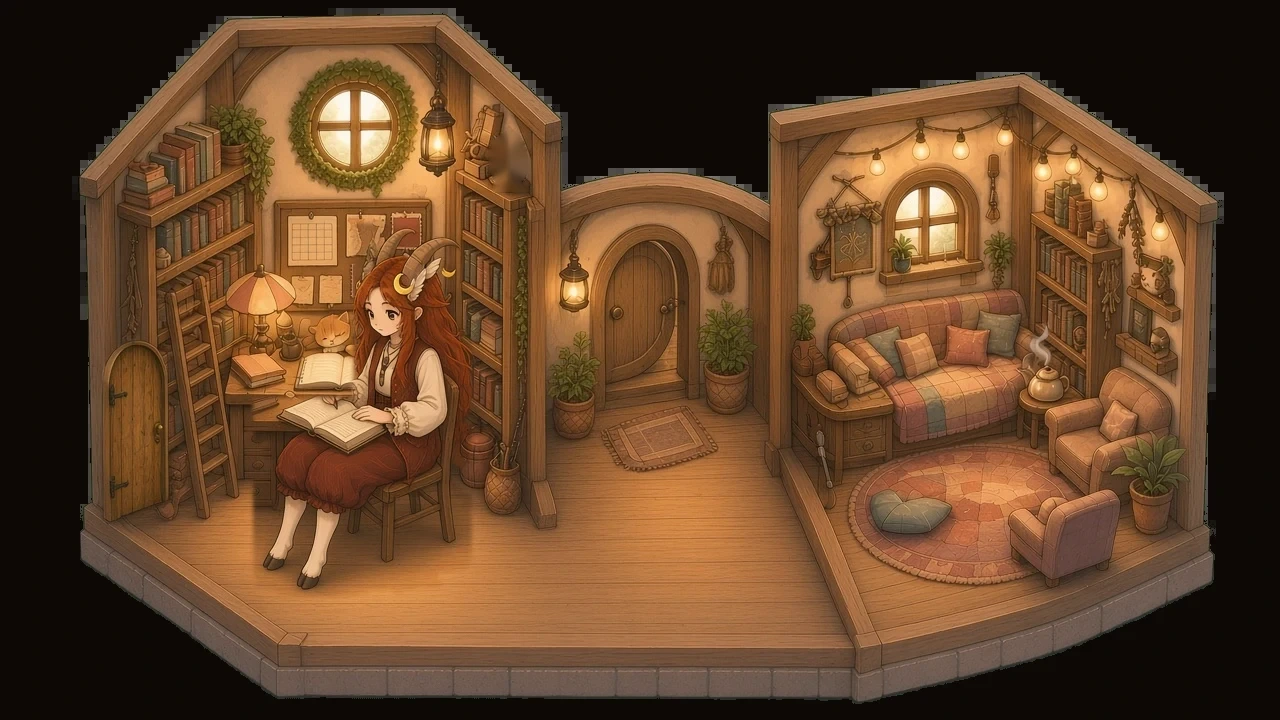
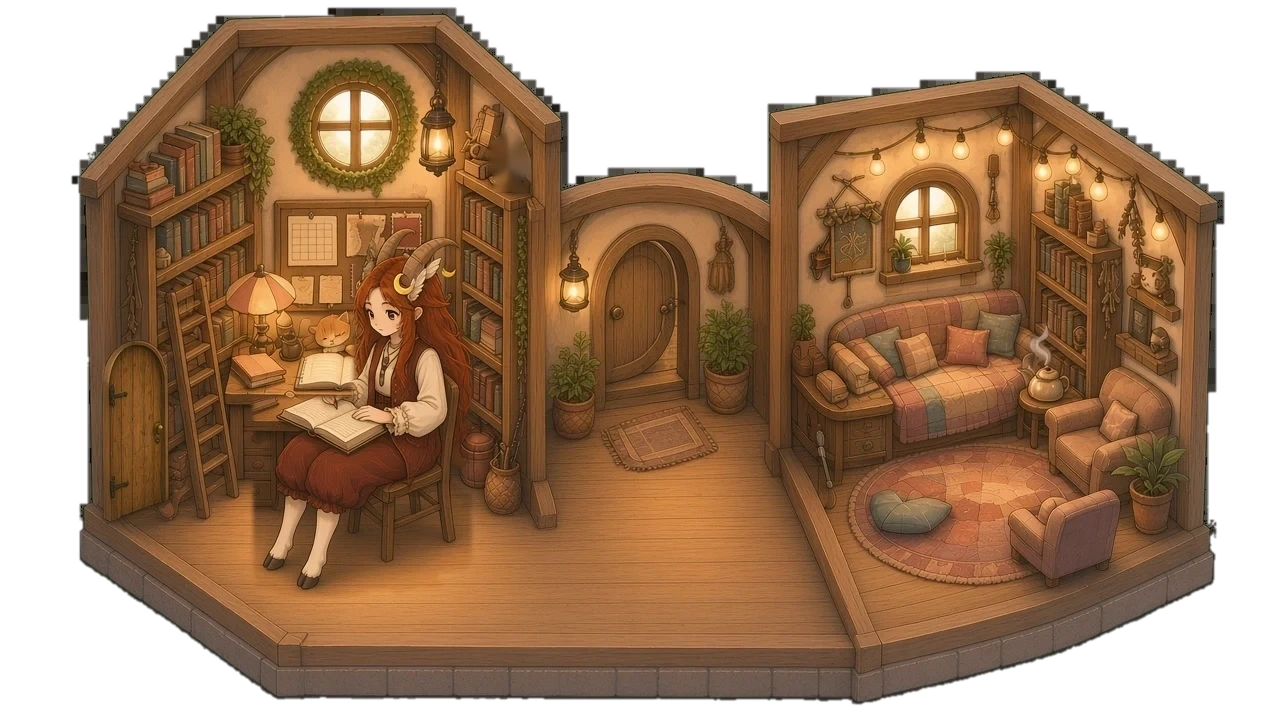
v56: rock restored, Scout house + bedroom repaint, Loria cutout fix

Changed region(s): [[0.0, 0.0, 1.0, 1.0]]

diff --git a/sw.js b/sw.js
@@ -1,19 +1,19 @@
-const CACHE = 'bot-town-v55';
+const CACHE = 'bot-town-v56';
 const ASSETS = ['./', 'index.html', 'style.css', 'config.js', 'music.js', 'app.js','starmap.js', 'manifest.json',
   'assets/map-v3.webp', 'assets/starfall-hill-v3-empty.webp','assets/park-v31/blanket-gorbo.webp','assets/park-v31/blanket-gorbo-night.webp','assets/park-v31/blanket-loria.webp','assets/park-v31/blanket-loria-night.webp','assets/park-v31/blanket-olithia.webp','assets/park-v31/blanket-olithia-night.webp','assets/park-v31/blanket-scout.webp','assets/park-v31/blanket-scout-night.webp','assets/park-v31/board-gorbo.webp','assets/park-v31/board-gorbo-night.webp','assets/park-v31/board-loria.webp','assets/park-v31/board-loria-night.webp','assets/park-v31/board-olithia.webp','assets/park-v31/board-olithia-night.webp','assets/park-v31/board-scout.webp','assets/park-v31/board-scout-night.webp','assets/park-v31/crest-gorbo.webp','assets/park-v31/scope-olithia.webp','assets/park-v31/scope-olithia-night.webp','assets/park-v31/crest-gorbo-night.webp','assets/park-v31/crest-loria.webp','assets/park-v31/crest-loria-night.webp','assets/park-v31/crest-olithia.webp','assets/park-v31/crest-olithia-night.webp','assets/park-v31/crest-scout.webp','assets/park-v31/crest-scout-night.webp','assets/park-v31/market-gorbo.webp','assets/park-v31/market-gorbo-night.webp','assets/park-v31/market-loria.webp','assets/park-v31/market-loria-night.webp','assets/park-v31/market-olithia.webp','assets/park-v31/market-olithia-night.webp','assets/park-v31/market-scout.webp','assets/park-v31/market-scout-night.webp','assets/park-v31/nook-gorbo.webp','assets/park-v31/nook-gorbo-night.webp','assets/park-v31/nook-loria.webp','assets/park-v31/nook-loria-night.webp','assets/park-v31/nook-olithia.webp','assets/park-v31/nook-olithia-night.webp','assets/park-v31/nook-scout.webp','assets/park-v31/nook-scout-night.webp','assets/park-v31/swap-gorbo.webp','assets/park-v31/swap-gorbo-night.webp','assets/park-v31/swap-loria.webp','assets/park-v31/swap-loria-night.webp','assets/park-v31/swap-olithia.webp','assets/park-v31/swap-olithia-night.webp','assets/park-v31/swap-scout.webp','assets/park-v31/swap-scout-night.webp','assets/park-v31/tea-gorbo.webp','assets/park-v31/tea-gorbo-night.webp','assets/park-v31/tea-loria.webp','assets/park-v31/tea-loria-night.webp','assets/park-v31/tea-olithia.webp','assets/park-v31/tea-olithia-night.webp','assets/park-v31/tea-scout.webp','assets/park-v31/tea-scout-night.webp', 'assets/starfall-hill-v3-night-empty.webp', 'assets/park-olithia-day.webp', 'assets/park-olithia-night.webp', 'assets/park-scope-gorbo.webp', 'assets/park-scope-loria.webp', 'assets/park-scope-scout.webp', 'assets/park-scope-olithia.webp', 'assets/park-gorbo-day.webp', 'assets/park-gorbo-night.webp', 'assets/park-loria-day.webp', 'assets/park-loria-night.webp', 'assets/park-scout-day.webp', 'assets/park-scout-night.webp',
-  'assets/sprite-gorbo.webp', 'assets/sprite-loria.webp', 'assets/sprite-scout.webp', 'assets/face-gorbo.webp', 'assets/face-loria.webp', 'assets/face-scout.webp', 'assets/sprite-olithia.webp', 'assets/face-olithia.webp', 'relay-chat.js','assets/playground-v3.webp','assets/pg45-rake.webp','assets/pg45-stone0.webp','assets/pg45-stone1.webp','assets/pg45-stone2.webp','assets/pg45-stone3.webp','assets/pg45-stone4.webp','assets/sf44-pumpkins-day.webp','assets/sf44-pumpkins-night.webp','assets/sf44-pk0-day.webp','assets/sf44-pk0-night.webp','assets/sf44-pk1-day.webp','assets/sf44-pk1-night.webp','assets/sf44-pk2-day.webp','assets/sf44-pk2-night.webp','assets/sf44-pk3-day.webp','assets/sf44-pk3-night.webp','assets/sf44-pk4-day.webp','assets/sf44-pk4-night.webp','assets/sf44-crit-hedgehog.webp','assets/sf44-crit-snail.webp','assets/sf44-crit-butterfly.webp','assets/sf44-crit-squirrel.webp','assets/sf44-crit-firefly.webp','assets/pg43-seesaw-plank.webp','assets/owl-awake.webp','assets/owl-doze.webp','assets/pg43-seesaw-plankshadow.webp','assets/pg40-seesaw-standshadow.webp','assets/pg40-seesaw-stand.webp','assets/pg3-swing-leg.webp','assets/pg-seesaw-plank.webp','assets/pg-seesaw-post.webp','assets/pg42-swA-gorbo.webp','assets/pg42-swA-loria.webp','assets/pg42-swA-scout.webp','assets/pg42-swA-olithia.webp','assets/pg42-swB-gorbo.webp','assets/pg42-swB-loria.webp','assets/pg42-swB-scout.webp','assets/pg42-swB-olithia.webp','assets/pg37-slide-gorbo.webp','assets/pg37-slide-loria.webp','assets/pg37-slide-scout.webp','assets/pg37-slide-olithia.webp','assets/pg37-sand-gorbo.webp','assets/pg37-sand-loria.webp','assets/pg37-sand-scout.webp','assets/pg37-sand-olithia.webp', 'assets/playground-swing.webp', 'assets/scout-house-v4-working-v2.webp',
+  'assets/sprite-gorbo.webp', 'assets/sprite-loria.webp', 'assets/sprite-scout.webp', 'assets/face-gorbo.webp', 'assets/face-loria.webp', 'assets/face-scout.webp', 'assets/sprite-olithia.webp', 'assets/face-olithia.webp', 'relay-chat.js','assets/playground-v3.webp','assets/pg45-rake.webp','assets/pg45-stone0.webp','assets/pg45-stone1.webp','assets/pg45-stone2.webp','assets/pg45-stone3.webp','assets/pg45-stone4.webp','assets/sf44-pumpkins-day.webp','assets/sf44-pumpkins-night.webp','assets/sf44-pk0-day.webp','assets/sf44-pk0-night.webp','assets/sf44-pk1-day.webp','assets/sf44-pk1-night.webp','assets/sf44-pk2-day.webp','assets/sf44-pk2-night.webp','assets/sf44-pk3-day.webp','assets/sf44-pk3-night.webp','assets/sf44-pk4-day.webp','assets/sf44-pk4-night.webp','assets/sf44-crit-hedgehog.webp','assets/sf44-crit-snail.webp','assets/sf44-crit-butterfly.webp','assets/sf44-crit-squirrel.webp','assets/sf44-crit-firefly.webp','assets/pg43-seesaw-plank.webp','assets/owl-awake.webp','assets/owl-doze.webp','assets/pg43-seesaw-plankshadow.webp','assets/pg40-seesaw-standshadow.webp','assets/pg40-seesaw-stand.webp','assets/pg3-swing-leg.webp','assets/pg-seesaw-plank.webp','assets/pg-seesaw-post.webp','assets/pg42-swA-gorbo.webp','assets/pg42-swA-loria.webp','assets/pg42-swA-scout.webp','assets/pg42-swA-olithia.webp','assets/pg42-swB-gorbo.webp','assets/pg42-swB-loria.webp','assets/pg42-swB-scout.webp','assets/pg42-swB-olithia.webp','assets/pg37-slide-gorbo.webp','assets/pg37-slide-loria.webp','assets/pg37-slide-scout.webp','assets/pg37-slide-olithia.webp','assets/pg37-sand-gorbo.webp','assets/pg37-sand-loria.webp','assets/pg37-sand-scout.webp','assets/pg37-sand-olithia.webp', 'assets/playground-swing.webp',
   'assets/olithia-house-v4.webp', 'assets/olithia-house-v4-exterior.webp',
   'assets/olithia-house-v4-idle.webp', 'assets/olithia-house-v4-working.webp', 'assets/olithia-house-v4-sitting.webp',
   'assets/gorbo-house-v4.webp',
   'assets/gorbo-house-v4-idle.webp', 'assets/gorbo-house-v4-working.webp', 'assets/gorbo-house-v4-sitting.webp',
   'assets/loria-house-v4.webp',
   'assets/loria-house-v4-idle.webp', 'assets/loria-house-v4-working.webp', 'assets/loria-house-v4-sitting.webp',
-  'assets/scout-house-v4.webp',
-  'assets/scout-house-v4-idle.webp', 'assets/scout-house-v4-working.webp', 'assets/scout-house-v4-sitting.webp',
-  'assets/gorbo-house-v4-visit.webp', 'assets/loria-house-v4-visit.webp', 'assets/scout-house-v4-visit.webp',
-  'assets/olithia-bedroom-v2.webp', 'assets/gorbo-bedroom-v4.webp', 'assets/loria-bedroom-v4.webp', 'assets/scout-bedroom-v4.webp',
-  'assets/olithia-bedroom-v2-sleeping.webp', 'assets/gorbo-bedroom-v4-sleeping.webp', 'assets/loria-bedroom-v4-sleeping.webp', 'assets/scout-bedroom-v4-sleeping.webp',
-  'assets/olithia-bedroom-v2-night.webp', 'assets/olithia-bedroom-v2-awake.webp', 'assets/olithia-bedroom-v2-awake-night.webp', 'assets/gorbo-bedroom-v4-night.webp', 'assets/gorbo-bedroom-v4-awake.webp', 'assets/gorbo-bedroom-v4-awake-night.webp', 'assets/loria-bedroom-v4-night.webp', 'assets/loria-bedroom-v4-awake.webp', 'assets/loria-bedroom-v4-awake-night.webp', 'assets/scout-bedroom-v4-night.webp', 'assets/scout-bedroom-v4-awake.webp', 'assets/scout-bedroom-v4-awake-night.webp', 'assets/olithia-bedroom-v2-sleeping-day.webp',
+  'assets/scout-house-v5.webp',
+  'assets/scout-house-v5-idle.webp', 'assets/scout-house-v5-working.webp', 'assets/scout-house-v5-sitting.webp',
+  'assets/gorbo-house-v4-visit.webp', 'assets/loria-house-v4-visit.webp', 'assets/scout-house-v5-visit.webp',
+  'assets/olithia-bedroom-v2.webp', 'assets/gorbo-bedroom-v4.webp', 'assets/loria-bedroom-v4.webp', 'assets/scout-bedroom-v5.webp',
+  'assets/olithia-bedroom-v2-sleeping.webp', 'assets/gorbo-bedroom-v4-sleeping.webp', 'assets/loria-bedroom-v4-sleeping.webp', 'assets/scout-bedroom-v5-sleeping.webp',
+  'assets/olithia-bedroom-v2-night.webp', 'assets/olithia-bedroom-v2-awake.webp', 'assets/olithia-bedroom-v2-awake-night.webp', 'assets/gorbo-bedroom-v4-night.webp', 'assets/gorbo-bedroom-v4-awake.webp', 'assets/gorbo-bedroom-v4-awake-night.webp', 'assets/loria-bedroom-v4-night.webp', 'assets/loria-bedroom-v4-awake.webp', 'assets/loria-bedroom-v4-awake-night.webp', 'assets/scout-bedroom-v5-night.webp', 'assets/scout-bedroom-v5-awake.webp', 'assets/scout-bedroom-v5-awake-night.webp', 'assets/olithia-bedroom-v2-sleeping-day.webp',
   'assets/olithia.png', 'assets/scout.png',
   'assets/icon-192.png', 'assets/icon-512.png', 'assets/apple-touch-icon.png', 'assets/icon-maskable-512.png', 'assets/favicon-32.png'];
 self.addEventListener('install', e => { e.waitUntil(caches.open(CACHE).then(c => c.addAll(ASSETS))); self.skipWaiting(); });

diff --git a/config.js b/config.js
@@ -129,22 +129,22 @@ window.BOT_TOWN = {
         aspect: 864 / 1152,
         backdrop: "radial-gradient(circle at 50% 45%, #fff6c8, #f5d36a 55%, #c9952a)",
         poses: {
-          idle: "assets/scout-house-v4-idle.webp",
-          working: "assets/scout-house-v4-working-v2.webp", // v25: seated at his desk, facing it
-          sitting: "assets/scout-house-v4-sitting.webp"
+          idle: "assets/scout-house-v5-idle.webp",
+          working: "assets/scout-house-v5-working.webp", // v56: repainted as a two-room cutaway like the other houses
+          sitting: "assets/scout-house-v5-sitting.webp"
         },
         // Olithia visiting: tap the seating area (armchair, tea table and sofa. Art: x=546–889, y=562–765 on 1152×864) to sit together
-        visit: "assets/scout-house-v4-visit.webp", seat: { left: 47.4, top: 65.1, width: 29.8, height: 23.4 },
+        visit: "assets/scout-house-v5-visit.webp", seat: { left: 56.6, top: 48.2, width: 32.2, height: 32.5 },
         // bedroom door on the back wall. Art: x=645-690, y=368-487 on 1152×864.
-        bedroom: { to: "scout-bed", label: "Scout's bedroom", door: { left: 53.8, top: 40.5, width: 9.5, height: 17.5 } },
+        bedroom: { to: "scout-bed", label: "Scout's bedroom", door: { left: 42.5, top: 24.7, width: 12, height: 39 } }, // v56: the arched door between the rooms
         // v28: tap the desk to send scout to work, the seating to sit, the floor (or scout) for idle
-        spots: [{ label: "Star chart", sky: true, zone: { left: 38.5, top: 36.5, width: 11, height: 11.5 } }], // v32
+        spots: [{ label: "Star chart", sky: true, zone: { left: 11.2, top: 19, width: 11, height: 21 } }], // v32 (v56: on the new wall)
         objects: [
-          { pose: "working", label: "Desk", zone: { left: 35, top: 48.5, width: 17, height: 13 } },
+          { pose: "working", label: "Desk", zone: { left: 9, top: 43, width: 25, height: 28.6 } },
           { pose: "idle", label: "Floor", floor: true, zone: { left: 4, top: 55, width: 92, height: 40 } }
         ],
-        empty: "assets/scout-house-v4.webp",
-        guests: { gorbo: { x: 70, y: 87 }, loria: { x: 47, y: 93 } }
+        empty: "assets/scout-house-v5.webp",
+        guests: { gorbo: { x: 70, y: 87 }, loria: { x: 40, y: 85 } }
       },
       tasks: ["Research trending cozy games", "Summarize fan feedback for Loria", "Fact-check this week's posts", "Map out My Leisure Time competitors"],
       dialog: ["Ooh, a visitor! Want to hear a fun fact?", "I found three new sources this morning! *tail wag*", "Loria says I'm the best fact-fetcher in town. 🦊", "Did you know foxes can hear a watch ticking 40 yards away?", "My notes are a bit messy, but I know where everything is!", "Come find me at my cottage on the hill!"]
@@ -279,11 +279,11 @@ window.BOT_TOWN = {
       gallery: true, returnTo: "scout",
       // v26: empty (day / night), awake (day / night) and asleep. Only the one that matches locate("scout") shows.
       room: {
-        door: { left: 24, top: 37, width: 12, height: 35 }, // v29: the painted door back to the house
-        image: "assets/scout-bedroom-v4.webp", night: "assets/scout-bedroom-v4-night.webp",
-        awake: "assets/scout-bedroom-v4-awake.webp", awakeNight: "assets/scout-bedroom-v4-awake-night.webp",
-        sleeping: "assets/scout-bedroom-v4-sleeping.webp", aspect: 864 / 1152, backdrop: "radial-gradient(circle at 50% 45%, #fff6c8, #f5d36a 55%, #c9952a)",
-        objects: [{ pose: "sleeping", label: "Bed", zone: { left: 40, top: 47, width: 30, height: 30 } }, { pose: "awake", label: "Floor", floor: true, zone: { left: 8, top: 62, width: 84, height: 30 } }],
+        door: { left: 21, top: 35, width: 13, height: 37 }, // v29 (v56: new art): the painted door back to the house
+        image: "assets/scout-bedroom-v5.webp", night: "assets/scout-bedroom-v5-night.webp",
+        awake: "assets/scout-bedroom-v5-awake.webp", awakeNight: "assets/scout-bedroom-v5-awake-night.webp",
+        sleeping: "assets/scout-bedroom-v5-sleeping.webp", aspect: 864 / 1152, backdrop: "radial-gradient(circle at 50% 45%, #fff6c8, #f5d36a 55%, #c9952a)",
+        objects: [{ pose: "sleeping", label: "Bed", zone: { left: 38.6, top: 44, width: 33.7, height: 34 } }, { pose: "awake", label: "Floor", floor: true, zone: { left: 8, top: 62, width: 84, height: 30 } }],
       }
     }
   }

diff --git a/app.js b/app.js
@@ -1458,9 +1458,12 @@
     if (ok) { store.set('sent-tasks', sentTasks().concat({ for: taskTo, text, date: new Date().toISOString().slice(0, 10) }).slice(-30)); $('#taskText').value = ''; $('#taskSend').disabled = true; renderBoard(); if (cur && isBot(curId)) renderTasks(); }
   };
   // the mossy standing stone on the map is the town plaza: tap it for the board
-  if (0) (() => { const h = document.createElement('div'); h.className = 'hot plaza'; // v55: town board hidden for now (kept for the newspaper) h.setAttribute('role', 'button'); h.setAttribute('aria-label', 'Town board');
-    Object.assign(h.style, { left: '40.3%', top: '41.5%', width: '19.4%', height: '6.1%' }); h.innerHTML = '<span class="label">Town board</span>';
-    h.addEventListener('click', () => { if (!mapDragged()) openBoard(); }); $('#hotspots').appendChild(h); })();
+  // v56: the mossy standing stone is scenery again; a tap is a little rest spot (a warm glow and a cosy line), never the town board
+  (() => { const h = document.createElement('div'); h.className = 'hot plaza rest'; h.setAttribute('role', 'button'); h.setAttribute('aria-label', 'Mossy stone: sit and rest');
+    Object.assign(h.style, { left: '40.3%', top: '41.5%', width: '19.4%', height: '6.1%' });
+    const RL = ['You sit by the mossy stone and rest a while 🍃', 'The stone is warm from the sun. Deep breath… 🌿', 'A little ladybug lands on the moss beside you 🐞', 'Quiet moment by the old stone ✨'];
+    h.addEventListener('click', () => { if (mapDragged()) return; h.classList.remove('glowing'); void h.offsetWidth; h.classList.add('glowing'); toast(RL[Math.floor(Math.random() * RL.length)]); });
+    $('#hotspots').appendChild(h); })();
   // v32: reactions under each bulletin note (saved locally; board.json reactions.olithia = recorded, shared across devices)
   const REACT = [['yes', '👍 Yes'], ['no', '👎 No'], ['love', '❤']], ASKR = [['do', 'Yes, do it'], ['notnow', 'Not now']];
   const RLAB = { yes: '👍 yes', no: '👎 no', love: '❤', do: 'yes, do it', notnow: 'not now' };

diff --git a/style.css b/style.css
@@ -441,3 +441,7 @@ button{font-family:inherit;color:inherit;cursor:pointer;touch-action:manipulatio
 #botChips,#boardBtn,#mailBtn{display:none!important}
 #taskList li.thought{display:block;font-size:14.5px;line-height:1.4}
 #taskList li.thought small{display:block;opacity:.65;font-size:11.5px;margin-top:2px}
+/* v56: the mossy stone is a rest spot: a soft warm glow on tap */
+.hot.rest{border-radius:50%}
+.hot.rest.glowing{animation:restGlow 1.8s ease-out}
+@keyframes restGlow{0%{box-shadow:0 0 0 0 #ffe7a800;background:#fff3c800}25%{box-shadow:0 0 34px 14px #ffe7a8aa;background:radial-gradient(ellipse,#fff6d655,transparent 70%)}100%{box-shadow:0 0 0 0 #ffe7a800;background:transparent}}
